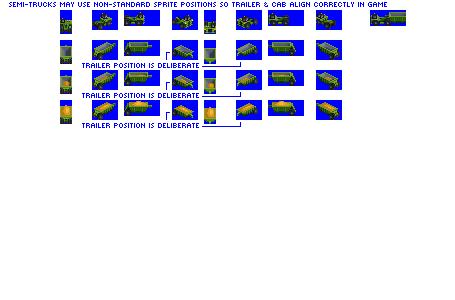
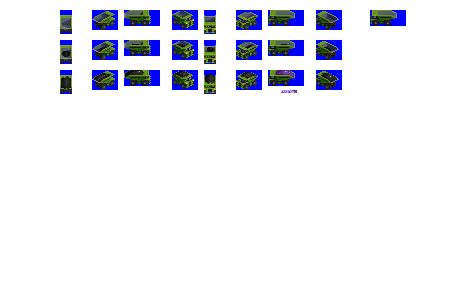
Change: faff with mining truck capacities and reset Witch Hill to single unit

diff --git a/src/vehicles/witch_hill.py b/src/vehicles/witch_hill.py
@@ -3,14 +3,13 @@ import graphics_processor.utils as graphics_utils
 from road_vehicle import RVConsist, DumpHauler
 
 graphics_processors = graphics_utils.get_bulk_cargo_processors(template='witch_hill_template.png',
-                                              copy_block_top_offsets = [40],
+                                              copy_block_top_offsets = [10],
                                               paste_top_offset = 40)
 
 consist = RVConsist(id = 'witch_hill',
               base_numeric_id = 500,
               title = 'Witch Hill [Mining Truck]',
               replacement_id = '-none',
-              semi_truck = True,
               power = 1200,
               speed = 55, # dibbled up above RL for game balance
               type_base_running_cost_points = 30, # dibble running costs for game balance
@@ -19,18 +18,10 @@ consist = RVConsist(id = 'witch_hill',
 
 consist.add_unit(DumpHauler(consist = consist,
                         weight = 60,
-                        capacity = 0,
-                        vehicle_length = 3,
-                        semi_truck_shift_offset_jank = 3,
-                        effects = ['EFFECT_SPRITE_AIRCRAFT_BREAKDOWN_SMOKE, -2, 1, 10', 'EFFECT_SPRITE_AIRCRAFT_BREAKDOWN_SMOKE, -2, -1, 10'],
-                        always_use_same_spriterow = True,
-                        spriterow_num = 0))
-
-consist.add_unit(DumpHauler(consist = consist,
-                        weight = 0, # put the weight on the truck to compensate for lack of TE when loaded
-                        capacity = 120,
+                        capacity = 75, # much bigger is not much better here
                         vehicle_length = 7,
-                        spriterow_adjust = {'multiplier': 0, 'offset': 1}))
+                        effects = ['EFFECT_SPRITE_AIRCRAFT_BREAKDOWN_SMOKE, -2, 1, 10', 'EFFECT_SPRITE_AIRCRAFT_BREAKDOWN_SMOKE, -2, -1, 10'],
+                        spriterow_num = 0))
 
 consist.add_model_variant(intro_date=0,
                        end_date=global_constants.max_game_date,

diff --git a/src/vehicles/gravelhead.py b/src/vehicles/gravelhead.py
@@ -16,7 +16,7 @@ consist = RVConsist(id = 'gravelhead',
 
 consist.add_unit(DumpHauler(consist = consist,
                         weight = 10,
-                        capacity = 25,
+                        capacity = 20,
                         vehicle_length = 6,
                         effect_spawn_model = 'EFFECT_SPAWN_MODEL_STEAM',
                         effects = ['EFFECT_SPRITE_STEAM, -3, 0, 12'],
@@ -24,7 +24,7 @@ consist.add_unit(DumpHauler(consist = consist,
 
 consist.add_unit(DumpHauler(consist = consist,
                         weight = 5,
-                        capacity = 25,
+                        capacity = 20, # much bigger is not much better here
                         vehicle_length = 5,
                         spriterow_adjust = {'multiplier': 2, 'offset': 1}))
 

diff --git a/src/vehicles/broadrock.py b/src/vehicles/broadrock.py
@@ -28,7 +28,7 @@ consist.add_unit(DumpHauler(consist = consist,
 
 consist.add_unit(DumpHauler(consist = consist,
                         weight = 0, # put the weight on the truck to compensate for lack of TE when loaded
-                        capacity = 85,
+                        capacity = 60, # much bigger is not much better here
                         vehicle_length = 6,
                         spriterow_adjust = {'multiplier': 0, 'offset': 1}))
 
